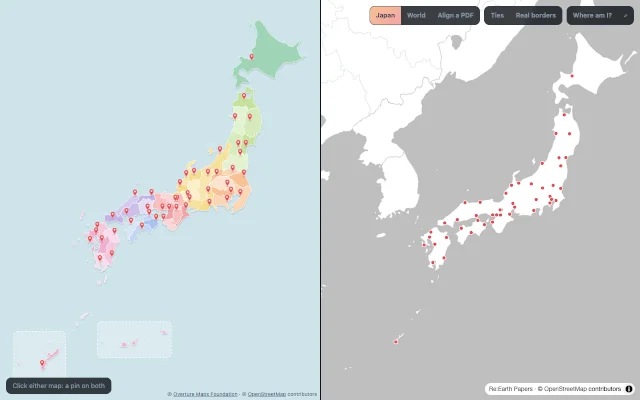
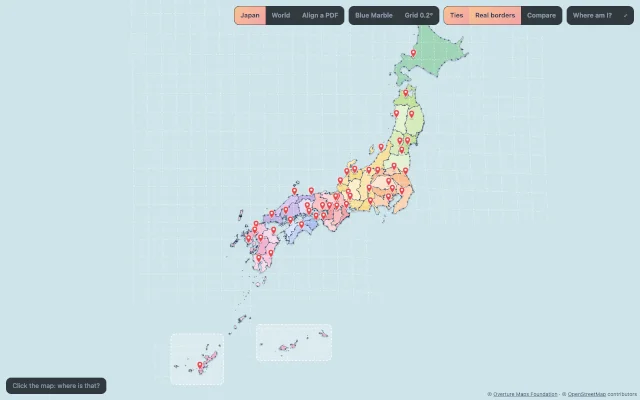
Day 22: hide the Mercator map beside ("Compare"); URL switches; thumbnail
"Compare" hides the Web Mercator map, and the freehand map takes the whole
page, fitted again to it. ?compare=off opens it so; ?ties=on and ?real=on
turn on the ties and the real borders from the start. The thumbnail is now
taken at /day/22?compare=off&ties=on&real=on.

diff --git a/app/maps/day22.vue b/app/maps/day22.vue
@@ -5,7 +5,7 @@
 // The art is plain SVG, shown as it is; the pins, the graticule and the real borders on top of it
 // all go through the projection. Click anywhere for the place under the pointer.
 // Beside it, the same places on Web Mercator (lib/MercatorPane.vue): a click on either map puts a
-// pin on both. "Align a PDF" fits the projection to a designer's own PDF, half by hand (lib/AlignPanel.vue).
+// pin on both. "Compare" (or ?compare=off) hides it. "Align a PDF" fits the projection to a designer's own PDF, half by hand (lib/AlignPanel.vue).
 // Data: scripts/day22/build_maps.py (the art and the ties) -> public/data/day22/
 import {
   FreehandProjection,
@@ -66,8 +66,10 @@ const SETTINGS: Record<MapMode, Settings & { warp: Warp }> = {
 
 const mode = ref<Mode>('japan')
 const mapMode = ref<MapMode>('japan') // the last map shown
-const showTies = ref(false)
-const showReal = ref(false)
+// The URL can turn some on from the start: ?ties=on&real=on (and ?compare=off, below)
+const query = useRoute().query
+const showTies = ref(query.ties === 'on')
+const showReal = ref(query.real === 'on')
 // A raster warped onto the freehand map: NASA's Blue Marble, or a 0.5° grid to show the stretch
 type Raster = 'bluemarble' | 'grid'
 const raster = ref<Raster>()
@@ -76,6 +78,15 @@ const rasterUrl = ref<string>()
 const warping = ref(false)
 // On a phone the controls fold away (with Align mode's toolbar) behind one button
 const controlsOpen = ref(true)
+// The Web Mercator map beside, to compare; off (?compare=off) the freehand map takes the whole page
+const compare = ref(query.compare !== 'off')
+watch(compare, async () => {
+  await nextTick()
+  // Its new size now (the resize observer would only report it after this frame), then fit to it
+  const el = container.value
+  if (el) pz.size.value = { w: el.clientWidth, h: el.clientHeight }
+  fit()
+})
 const alignBar = ref(0) // Align mode's toolbar height, to keep the controls above it on a phone
 const toggleRaster = (r: Raster) => (raster.value = raster.value === r ? undefined : r)
 const loaded = shallowRef<Loaded>()
@@ -311,6 +322,7 @@ onBeforeUnmount(() => cancelAnimationFrame(readoutFrame))
       v-show="mode !== 'align'"
       ref="container"
       class="viewer"
+      :class="{ solo: !compare }"
       @pointerdown="pz.handlers.onDown"
       @pointermove="pz.handlers.onMove"
       @pointerup="pz.handlers.onUp"
@@ -395,7 +407,7 @@ onBeforeUnmount(() => cancelAnimationFrame(readoutFrame))
       <span v-else-if="cursor">{{ fmtLngLat(cursor.lng, cursor.lat) }}</span>
       <span v-else-if="cursor === null" class="off">off the map</span>
       <span v-else-if="mine && !mine.xy" class="off">{{ fmtLngLat(mine.lng, mine.lat) }} is off this map</span>
-      <span v-else class="hint">Click either map: a pin on both</span>
+      <span v-else class="hint">{{ compare ? 'Click either map: a pin on both' : 'Click the map: where is that?' }}</span>
     </div>
 
     <div class="attribution">
@@ -409,7 +421,7 @@ onBeforeUnmount(() => cancelAnimationFrame(readoutFrame))
     </div>
 
     <!-- The same places on Web Mercator, to compare -->
-    <div v-show="mode !== 'align'" class="mercator">
+    <div v-show="mode !== 'align' && compare" class="mercator">
       <MercatorPane
         :view="mapMode"
         :pins="loaded?.data.pins ?? []"
@@ -440,6 +452,7 @@ onBeforeUnmount(() => cancelAnimationFrame(readoutFrame))
         <div class="seg" role="group" aria-label="Show">
           <button type="button" :aria-pressed="showTies" @click="showTies = !showTies">Ties</button>
           <button type="button" :aria-pressed="showReal" @click="showReal = !showReal">Real borders</button>
+          <button type="button" :aria-pressed="compare" title="The Web Mercator map beside" @click="compare = !compare">Compare</button>
         </div>
         <div class="seg">
           <button type="button" :disabled="locating" @click="locate">{{ locating ? 'Locating…' : 'Where am I?' }}</button>
@@ -524,6 +537,10 @@ onBeforeUnmount(() => cancelAnimationFrame(readoutFrame))
   left: 0;
 }
 
+.viewer.solo {
+  width: 100%;
+}
+
 .mercator {
   right: 0;
   border-left: 2px solid #0f1419;
@@ -540,6 +557,10 @@ onBeforeUnmount(() => cancelAnimationFrame(readoutFrame))
 
   .viewer {
     bottom: 45%;
+  }
+
+  .viewer.solo {
+    bottom: 0;
   }
 
   .mercator {

diff --git a/docs/day22.md b/docs/day22.md
@@ -114,6 +114,7 @@
 - ピンがもう一方の地図の画面の外なら、そこまで動かす。
 - 右の地図にも県庁所在地・首都を赤い点で出す（ポインタを乗せると名前）。
 - 右の地図には、左のフリーハンド図法が合わせている実際の都道府県境・国境（`japan.json` / `world.json` の `regions`）も線で重ねる。背景が明るい地図なら紺、Blue Marble なら白。
+- 「Compare」を外すと右の地図を隠し、フリーハンドの地図が画面いっぱいになる。URL に `?compare=off` を付けると、最初から隠した状態で開く。同じように `?ties=on`、`?real=on` で「Ties」「Real borders」を最初からオンにできる（サムネイルは `?compare=off&ties=on&real=on` で撮る）。
 - 世界は 150°E を中心にして左と揃える。Web メルカトルは画面の高さいっぱいに世界を描くので、縦長の画面では左右が少し切れる。
 
 ### ラスターを歪める：Blue Marble
